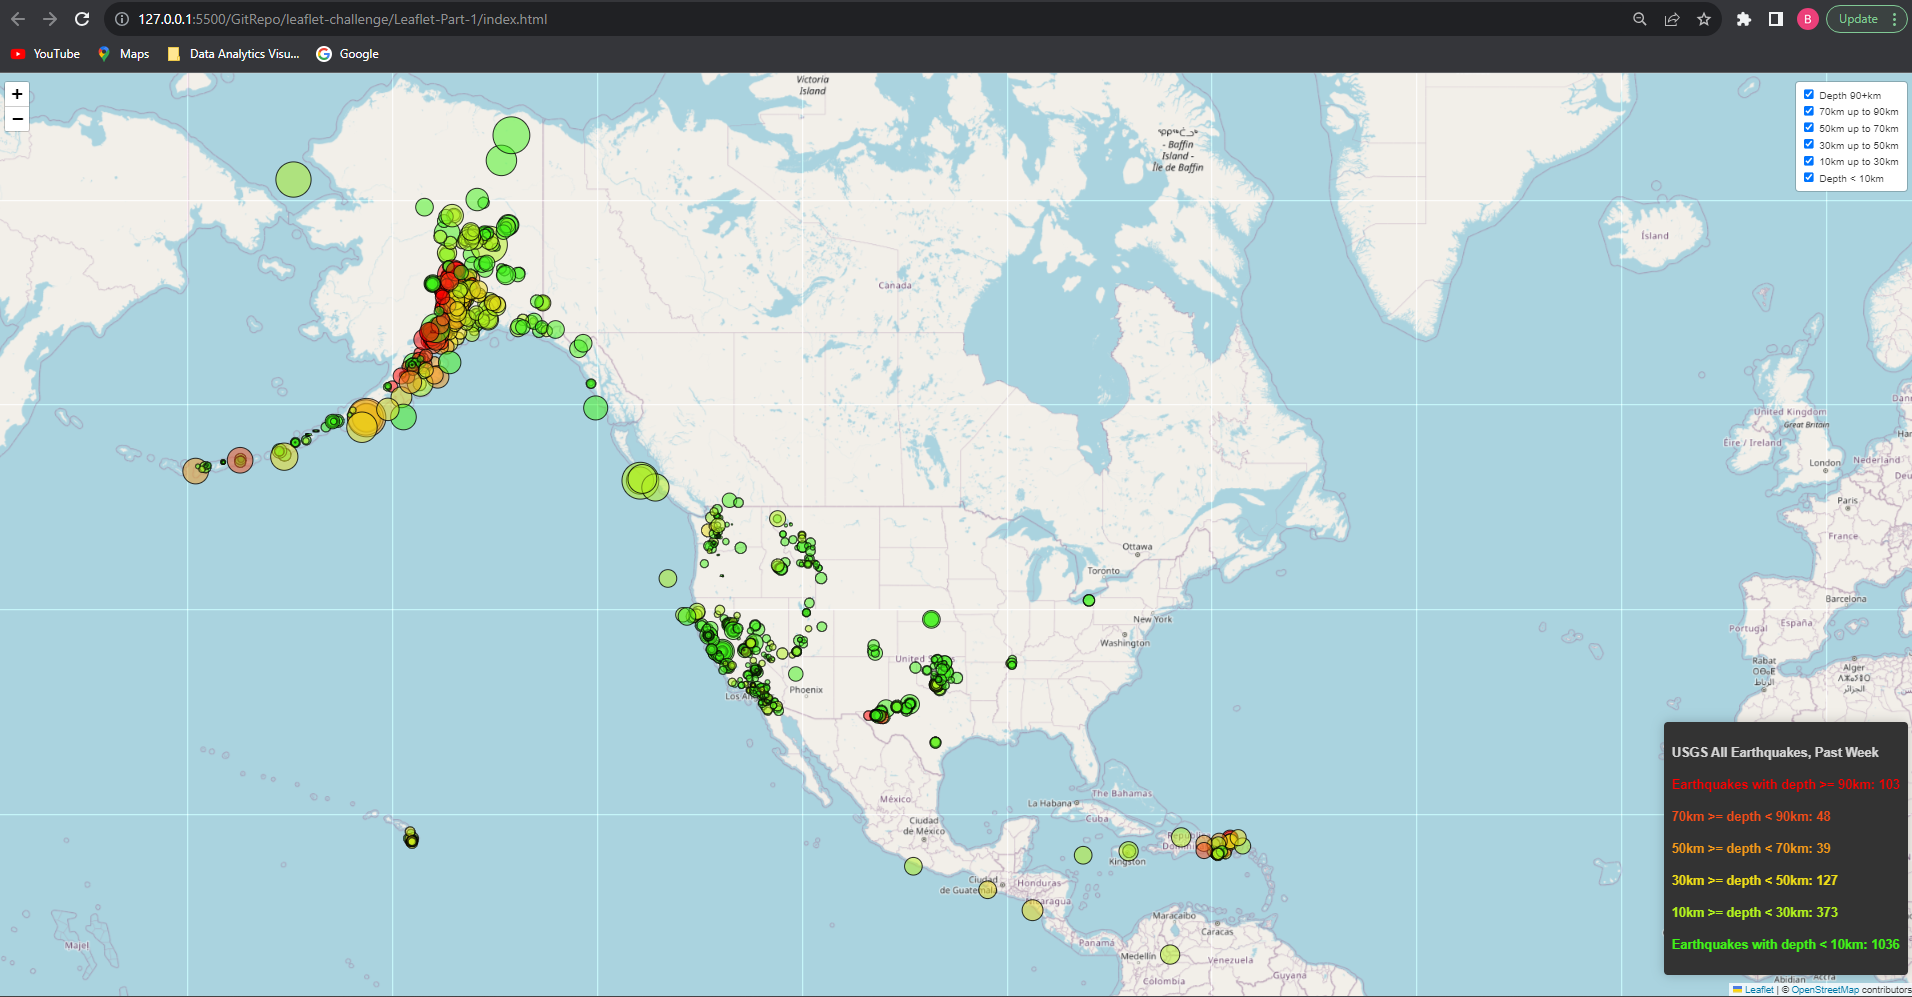
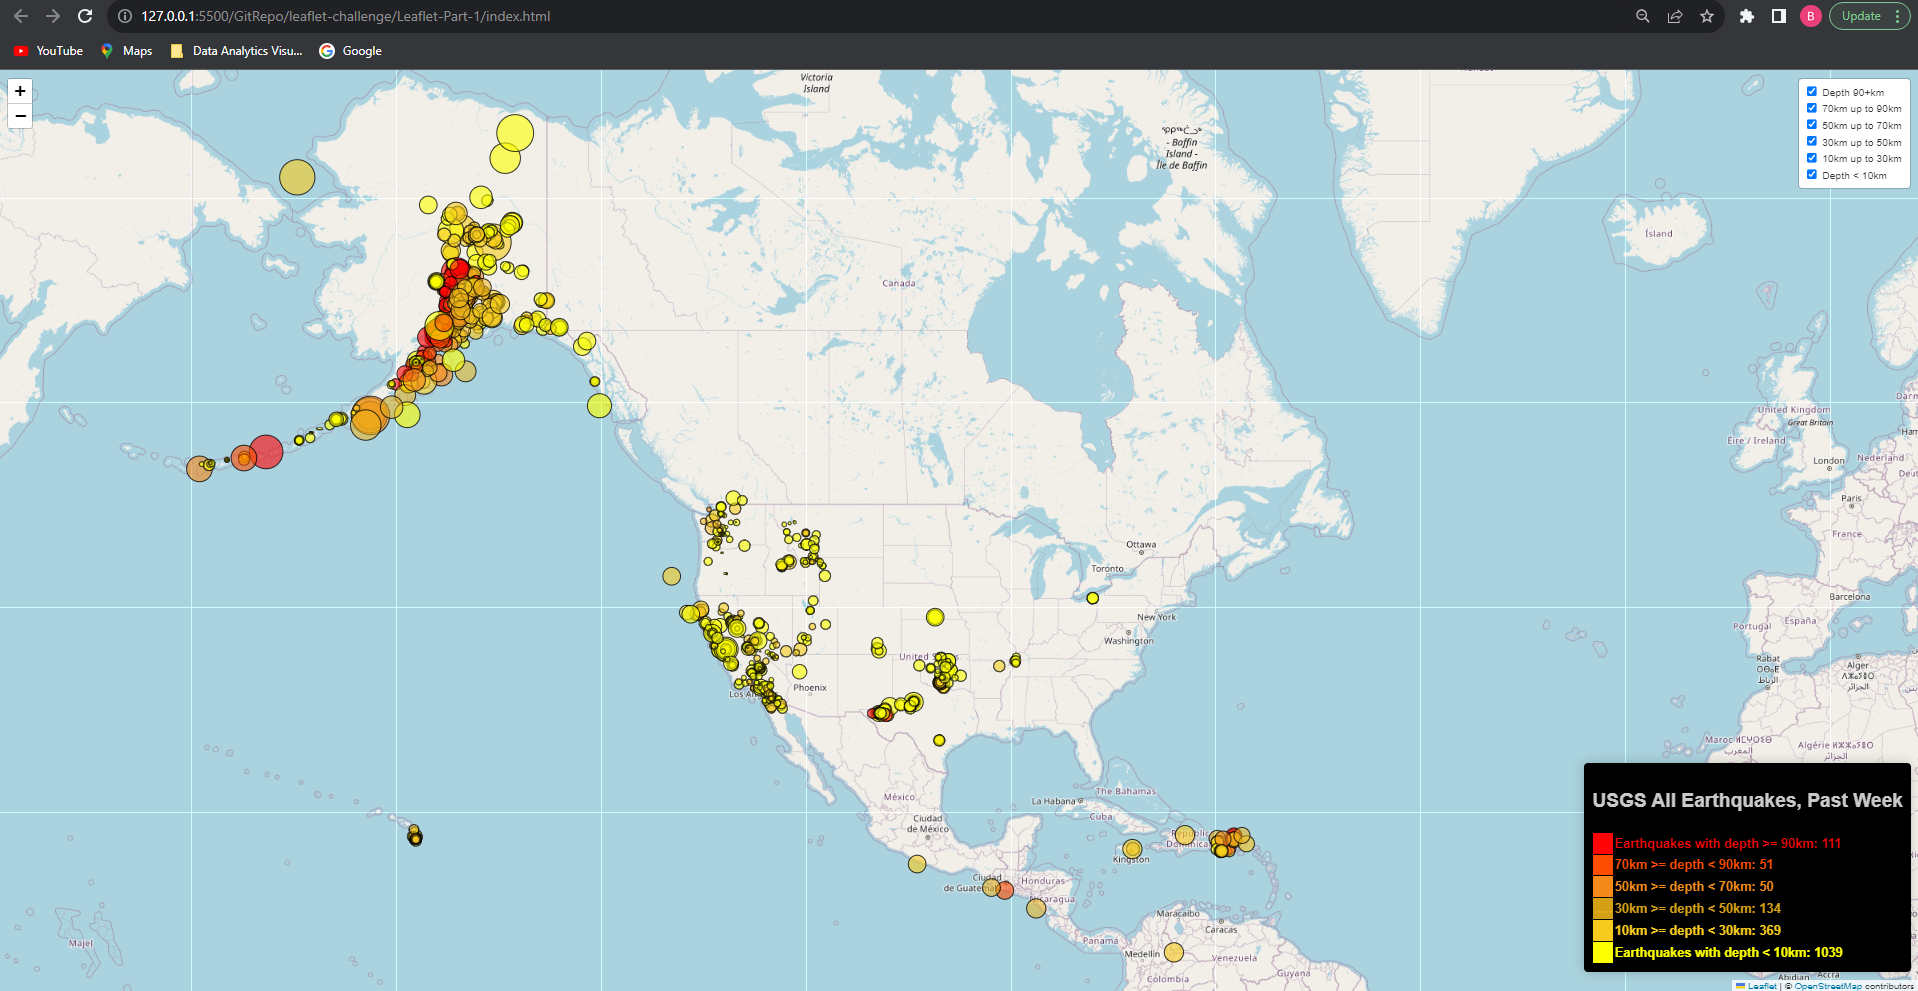
updated legend to go from lighter to darker and added colorboxes to legend

diff --git a/Leaflet-Part-1/static/js/logic.js b/Leaflet-Part-1/static/js/logic.js
@@ -57,12 +57,12 @@ legendInfo.addTo(map)
 
 // Create the color list for each depth bin
 let circleColors = {
-    depth90plus: "#ff0000",
-    depth70_89: "#f34c19",
-    depth50_69: "#f39819",
-    depth30_49: "#ecdb18",
-    depth10_29: "#b1f11e",
-    depth09minus: "#41f319"
+    depth90plus: "#ff0505",
+    depth70_89: "#fc4c00",
+    depth50_69: "#f38a19",
+    depth30_49: "#ecb318e4",
+    depth10_29: "#f6cb1e",
+    depth09minus: "#fbff00"
 }
 
 // Perform API call to United States Geological Survey (USGS) GeoJSON
@@ -78,6 +78,10 @@ d3.json("https://earthquake.usgs.gov/earthquakes/feed/v1.0/summary/all_week.geoj
     console.log("magnitude", features[0].properties.mag)
     console.log("depth", features[0].geometry.coordinates[2])
     console.log("location description", features[0].properties.place)
+    console.log("dataset: ", data.metadata.title)
+
+    // Capture title in a variable
+    dataTitle = data.metadata.title
 
     // Create an object to count the number of markers in each layer
     let eqCount = {
@@ -127,7 +131,7 @@ d3.json("https://earthquake.usgs.gov/earthquakes/feed/v1.0/summary/all_week.geoj
                 color: "black",
                 fillColor: circleColors[eqDepthCode],
                 weight: 1,
-                fillOpacity: 0.5,
+                fillOpacity: 0.6,
                 radius: 25000 * feature.properties.mag
             }
         )
@@ -135,23 +139,53 @@ d3.json("https://earthquake.usgs.gov/earthquakes/feed/v1.0/summary/all_week.geoj
         newMarker.addTo(layers[eqDepthCode])
 
         // Bind a popup displaying location description and magnitude
-        newMarker.bindPopup("<h3>" + feature.properties.place + "</h3><h4>Magnitude: " + feature.properties.mag + " <br>Depth: " + feature.geometry.coordinates[2] + "km</h4>")
+        newMarker.bindPopup("<h3>" + feature.properties.place + 
+                            "</h3><h4>Magnitude: " + feature.properties.mag + 
+                            " <br>Depth: " + feature.geometry.coordinates[2] + "km</h4>")
     }
 
     // Call the update legend function
-    updateLegend(eqCount)
+    updateLegend(eqCount, dataTitle)
 })
 
-function updateLegend(count) {
+function updateLegend(count, title) {
     document.querySelector(".legend").innerHTML = [
-        "<p>USGS All Earthquakes, Past Week</p>",
-        "<p class='depth90plus'> Earthquakes with depth >= 90km: " + count.depth90plus + "</p>",
-        "<p class='depth70_89'> 70km >= depth  < 90km: " + count.depth70_89 + "</p>",
-        "<p class='depth50_69'> 50km >= depth  < 70km: " + count.depth50_69 + "</p>",
-        "<p class='depth30_49'> 30km >= depth  < 50km: " + count.depth30_49 + "</p>",
-        "<p class='depth10_29'> 10km >= depth  < 30km: " + count.depth10_29 + "</p>",
-        "<p class='depth09minus'> Earthquakes with depth < 10km: " + count.depth09minus + "</p>"
+        "<h2>" + title + "</h2>",
+        "<table>",
+            "<tr class='depth90plus'>", 
+                "<td style='background-color: #ff0505;'>.....</td>",
+                "<td> Earthquakes with depth >= 90km: " + count.depth90plus + "</td>",
+            "</tr>",
+            "<tr class='depth70_89'>", 
+                "<td style='background-color: #fc4c00;'>.....</td>",
+                "<td> 70km >= depth  < 90km: " + count.depth70_89 + "</td>",
+            "</tr>",
+            "<tr class='depth50_69'>", 
+                "<td style='background-color: #f38a19;'>.....</td>",
+                "<td> 50km >= depth  < 70km: " + count.depth50_69 + "</td>",
+            "</tr>",
+            "<tr class='depth30_49'>", 
+                "<td style='background-color: #ecb318e4;'>.....</td>",
+                "<td> 30km >= depth  < 50km: " + count.depth30_49 + "</td>",
+            "</tr>",
+            "<tr class='depth10_29'>", 
+                "<td style='background-color: #f6cb1e;'>.....</td>",
+                "<td> 10km >= depth  < 30km: " + count.depth10_29 + "</td>",
+            "</tr>",
+            "<tr class='depth09minus'>", 
+                "<td style='background-color: #fbff00;'>.....</td>",
+                "<td> Earthquakes with depth < 10km: " + count.depth09minus + "</td>"
     ].join("")
 }
 
 
+
+{/* <table>
+    <tr>
+        <td style="background-color: #d7191c;">3000 to 3017</td>
+    </tr>
+    <tr>
+        <td style="background-color: #f07c4a;">2500 to 3000</td>
+    </tr>
+    <!-- etc -->
+</table> */}

diff --git a/Leaflet-Part-1/static/css/style.css b/Leaflet-Part-1/static/css/style.css
@@ -15,31 +15,31 @@ html {
   font-size: 16px;
   font-weight: bold;
   color: rgba(255, 255, 255, 0.787);
-  background-color: #333;
+  background-color: #000000;
   border-radius: 5px;
   box-shadow: 0 0 15px rgba(0, 0, 0, 0.2);
 }
 
 .legend .depth90plus {
-  color: #ff0000;
+  color: #ff0505;
 }
 
 .legend .depth70_89 {
-  color: #f34c19;
+  color: #fc4c00;
 }
 
 .legend .depth50_69 {
-  color: #f39819;
+  color: #f38a19;
 }
 
 .legend .depth30_49 {
-  color: #ecdb18;
+  color: #ecb318e4;
 }
 
 .legend .depth10_29 {
-  color: #b1f11e;
+  color: #f6cb1e;
 }
 
 .legend .depth09minus {
-  color: #41f319;
+  color: #fbff00;
 }
